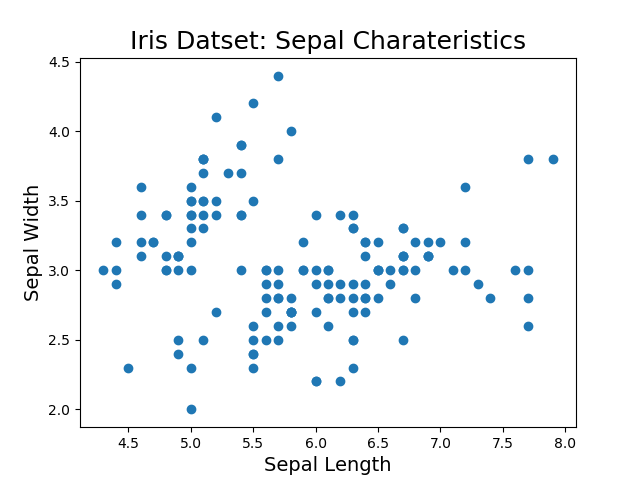
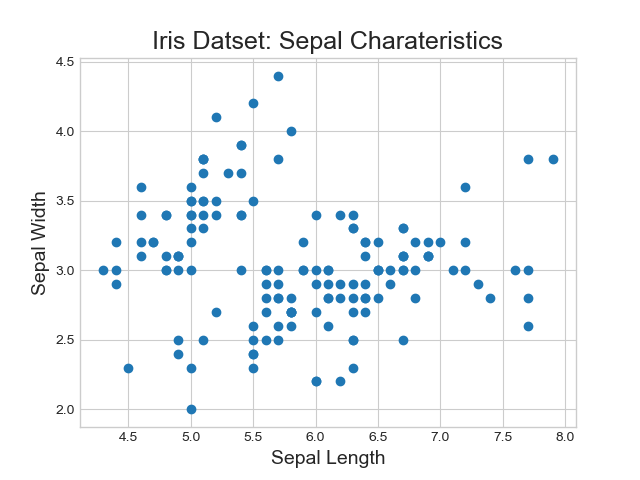
seaborn for plots

diff --git a/seabornplots.py b/seabornplots.py
@@ -1,0 +1,21 @@
+
+import matplotlib.pyplot as plt
+import seaborn as sns
+
+plt.style.use('seaborn-whitegrid')
+# library & dataset
+import seaborn as sns
+df = sns.load_dataset('iris')
+
+# use the function regplot to make a scatterplot
+sns.regplot(x=df["sepal_length"], y=df["sepal_width"])
+plt.show()
+
+ 
+# Use the 'hue' argument to provide a factor variable
+sns.lmplot( x="sepal_length", y="sepal_width", data=df, fit_reg=False, hue='species', legend=False)
+# Move the legend to an empty part of the plot
+plt.legend(loc='lower right')
+plt.show()
+
+ 
